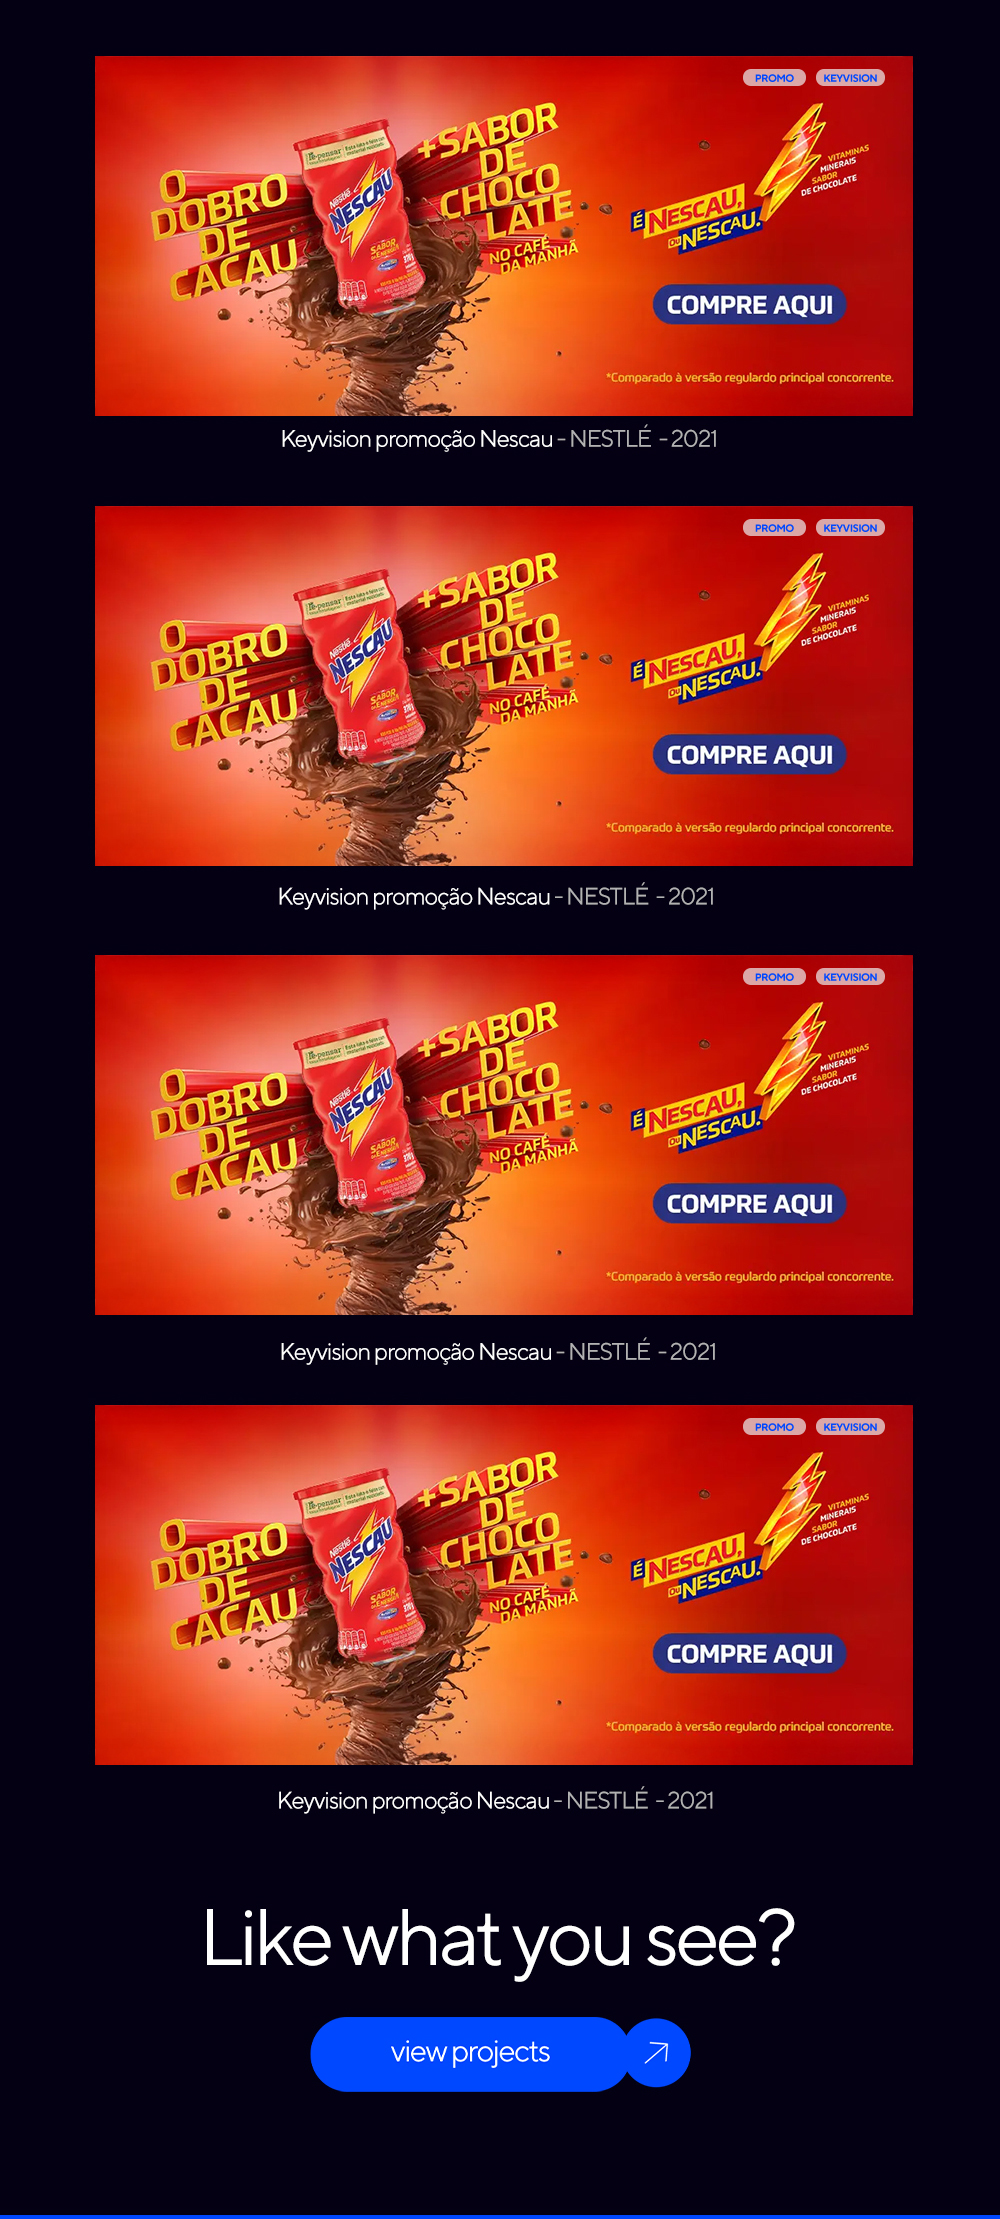
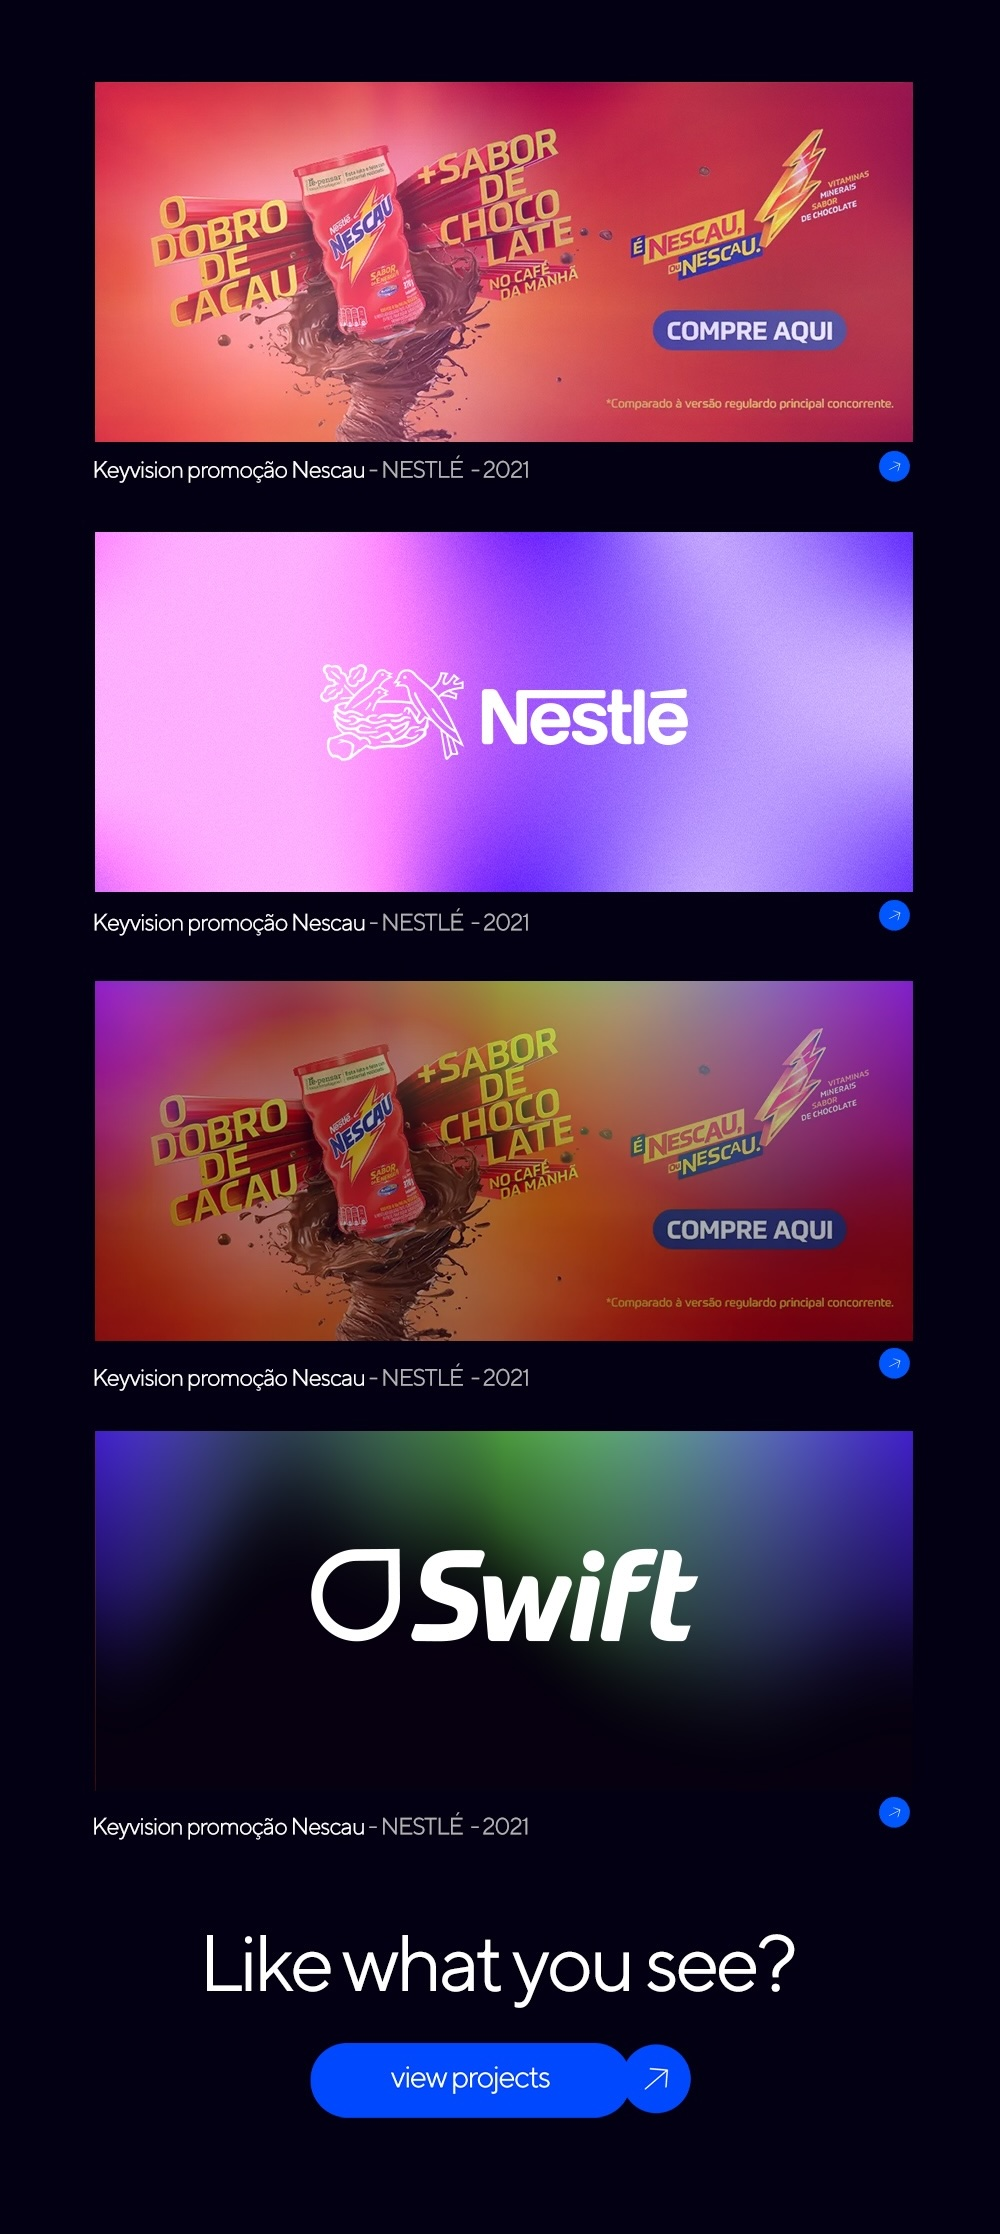
UPDATE

diff --git a/.context/DOCS-PORTFOLIO-PAGES/01-HOME/05-FEATURED-PROJECTS/05-FEATURED-PROJECTS.md b/.context/DOCS-PORTFOLIO-PAGES/01-HOME/05-FEATURED-PROJECTS/05-FEATURED-PROJECTS.md
@@ -88,9 +88,10 @@ Importante:
 ## 4. Regras de render dos cards
 
 - O background animado é sempre a camada mais baixa do card.
-- O overlay de branding fica acima:
-  - logo invertido central
-  - ou thumb com overlay 50%
+- Duas opções de card, overlay ou branding, as duas ficam acima:
+  - logo invertido (negativa) central, deixando o backgrond animado em evidência
+  - ou thumb com overlay 10%
+  - Escolha feita no dashbord, forçar a seguir o modelo que foi escolhido
 - O conteúdo editorial do card permanece igual:
   - categoria / cliente / ano
   - título

diff --git a/.context/DOCS-PORTFOLIO-PAGES/01-HOME/HOME - PROTOTIPO INTERATIVO.md b/.context/DOCS-PORTFOLIO-PAGES/01-HOME/HOME - PROTOTIPO INTERATIVO.md
@@ -686,6 +686,7 @@ import Grainient from './Grainient';
 - 02. Ghost Cursor: https://reactbits.dev/tools/background-studio?bg=ghost-cursor
          - Install: pnpm dlx shadcn@latest add @react-bits/GhostCursor-TS-TW
          - Usage:
+         
 `````
 
 import GhostCursor from './GhostCursor'
@@ -715,7 +716,7 @@ import GhostCursor from './GhostCursor'
 
 </div>
 
-‘’’’’’’
+´´´´´´´´
 
 - 3. Aurora: https://reactbits.dev/tools/background-studio?bg=aurora
      - Install: pnpm dlx shadcn@latest add @react-bits/Aurora-TS-TW
